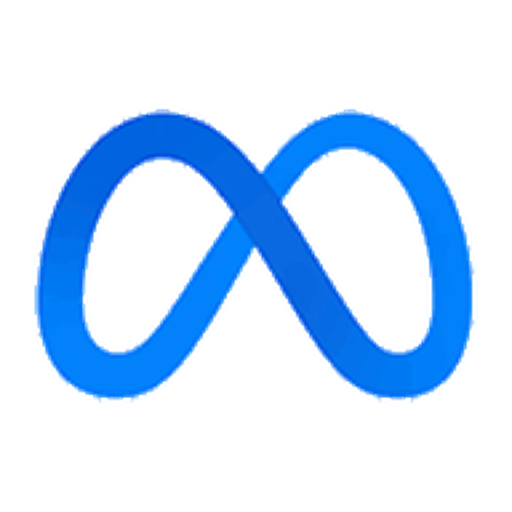
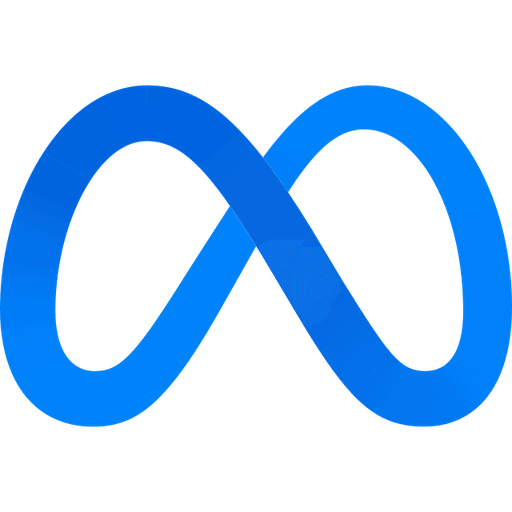
✨ 新增/更新 4 个品牌图标：Baidu / Huawei / Microsoft / Meta
- General/Baidu：百度蓝色爪印 logo（新增，白底保留）
- Telecom/Huawei：华为红色花瓣 logo（新增，透明底）
- Microsoft/Microsoft：四色方块 logo（替换旧版，7.6KB→2.8KB）
- Social/Meta：蓝色无限符号 logo（替换旧版，89KB→59KB）

均按规范处理：512×512 RGBA、r=115 圆角、四角透明、与规范渲染逐像素差 0。
同步 surge-icon.json（338→340 条目）+ General/Telecom 分类 README。
ci-validate-icons.py 全绿；计数 340 图标 / 250 品牌。

diff --git a/icons/General/README.md b/icons/General/README.md
@@ -1,12 +1,13 @@
 # 🔧 General / 通用策略
 
-> 共 **48** 个图标，**21** 个品牌
+> 共 **49** 个图标，**22** 个品牌
 
 | 品牌 | 图标文件 |
 |:---|:---|
 | `AD` | `AD.png AD01.png AD02.png AD03.png AD04.png AD05.png AD06.png` |
 | `Area` | `Area.png` |
 | `Auto` | `Auto.png` |
+| `Baidu` | `Baidu.png` |
 | `Blacklist` | `Blacklist.png` |
 | `Bot` | `Bot.png` |
 | `Direct` | `Direct.png` |

diff --git a/icons/Telecom/README.md b/icons/Telecom/README.md
@@ -1,6 +1,6 @@
 # 📡 Telecom / 运营商
 
-> 共 **7** 个图标，**4** 个品牌
+> 共 **8** 个图标，**5** 个品牌
 
 | 品牌 | 图标文件 |
 |:---|:---|
@@ -8,3 +8,4 @@
 | `ChinaMobile` | `ChinaMobile.png ChinaMobile01.png` |
 | `ChinaTelecom` | `ChinaTelecom.png ChinaTelecom01.png` |
 | `ChinaUnicom` | `ChinaUnicom.png ChinaUnicom01.png` |
+| `Huawei` | `Huawei.png` |
